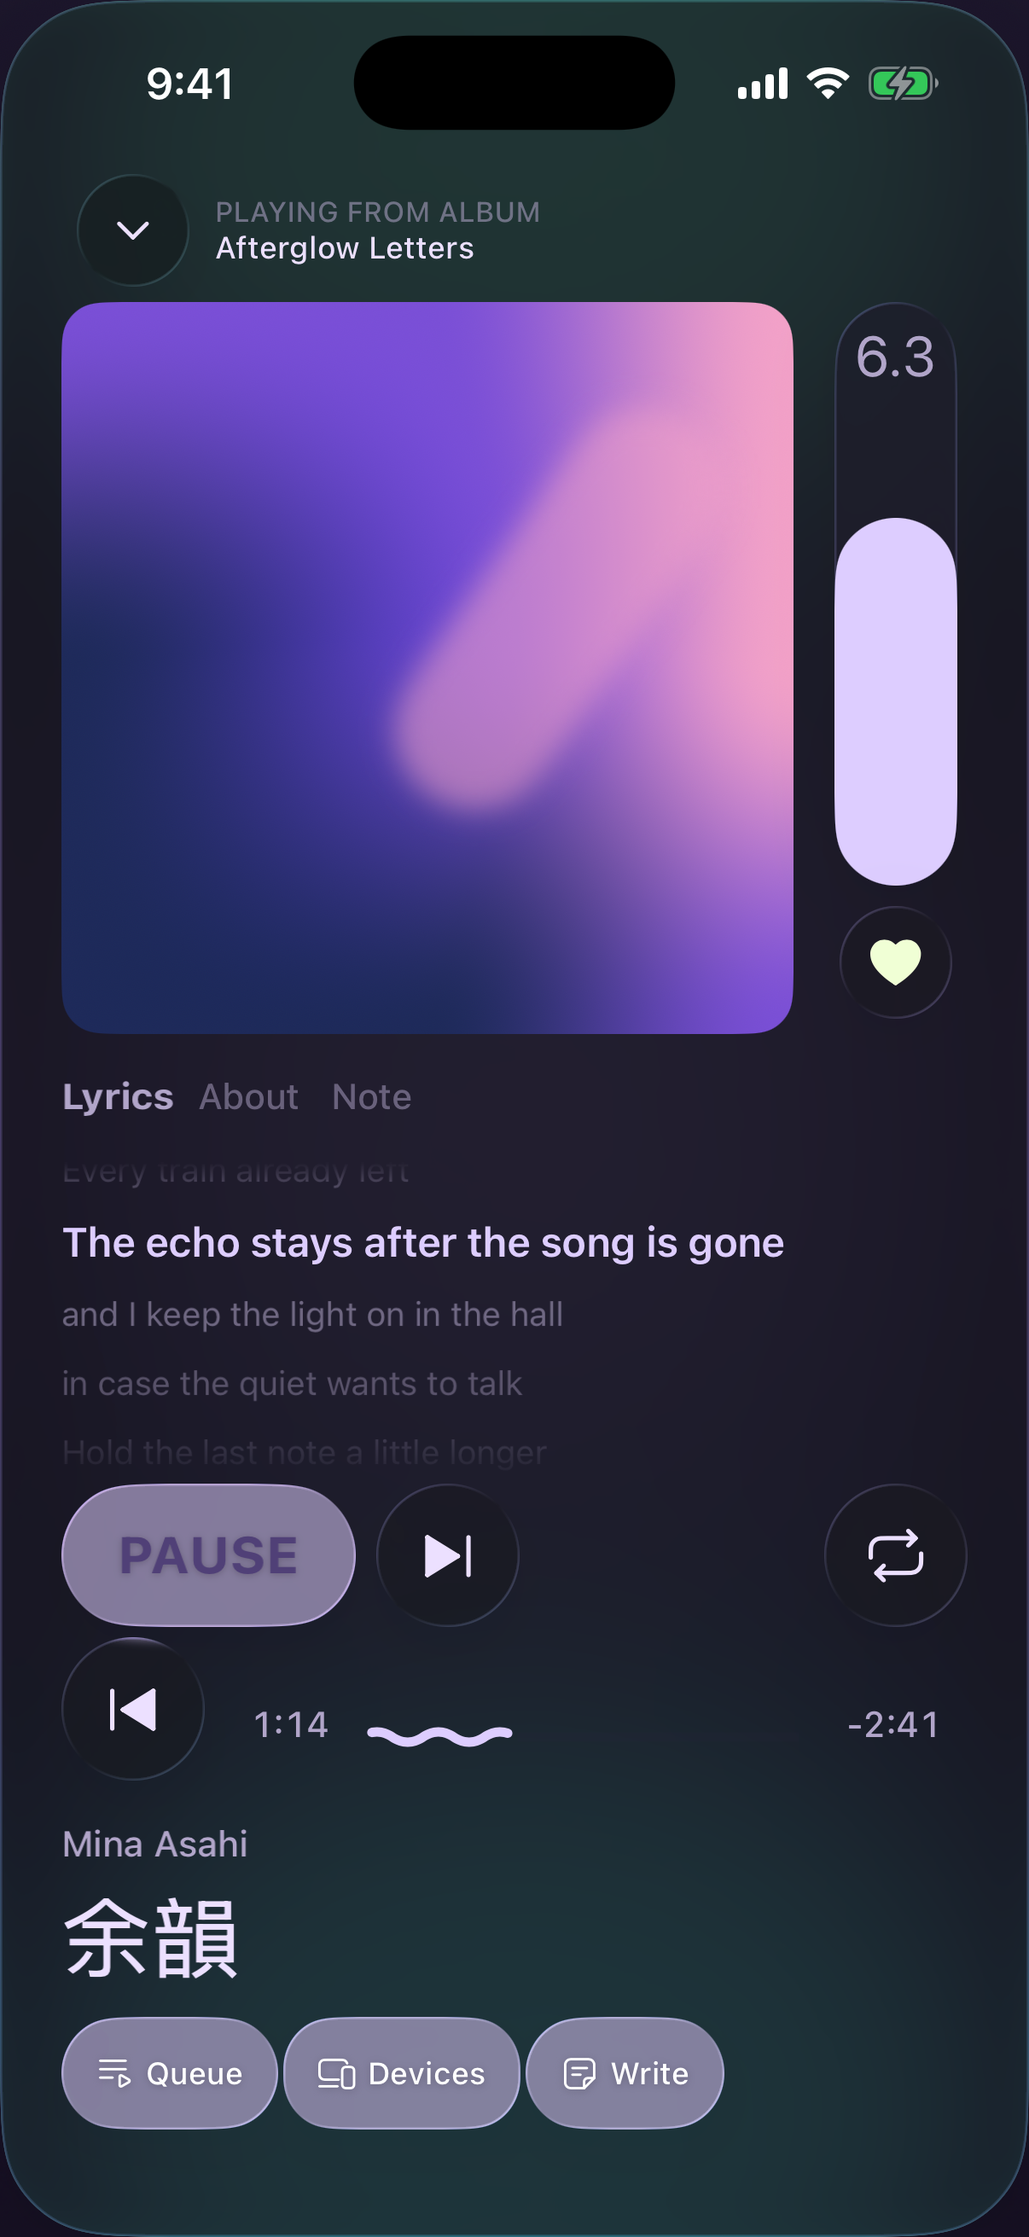
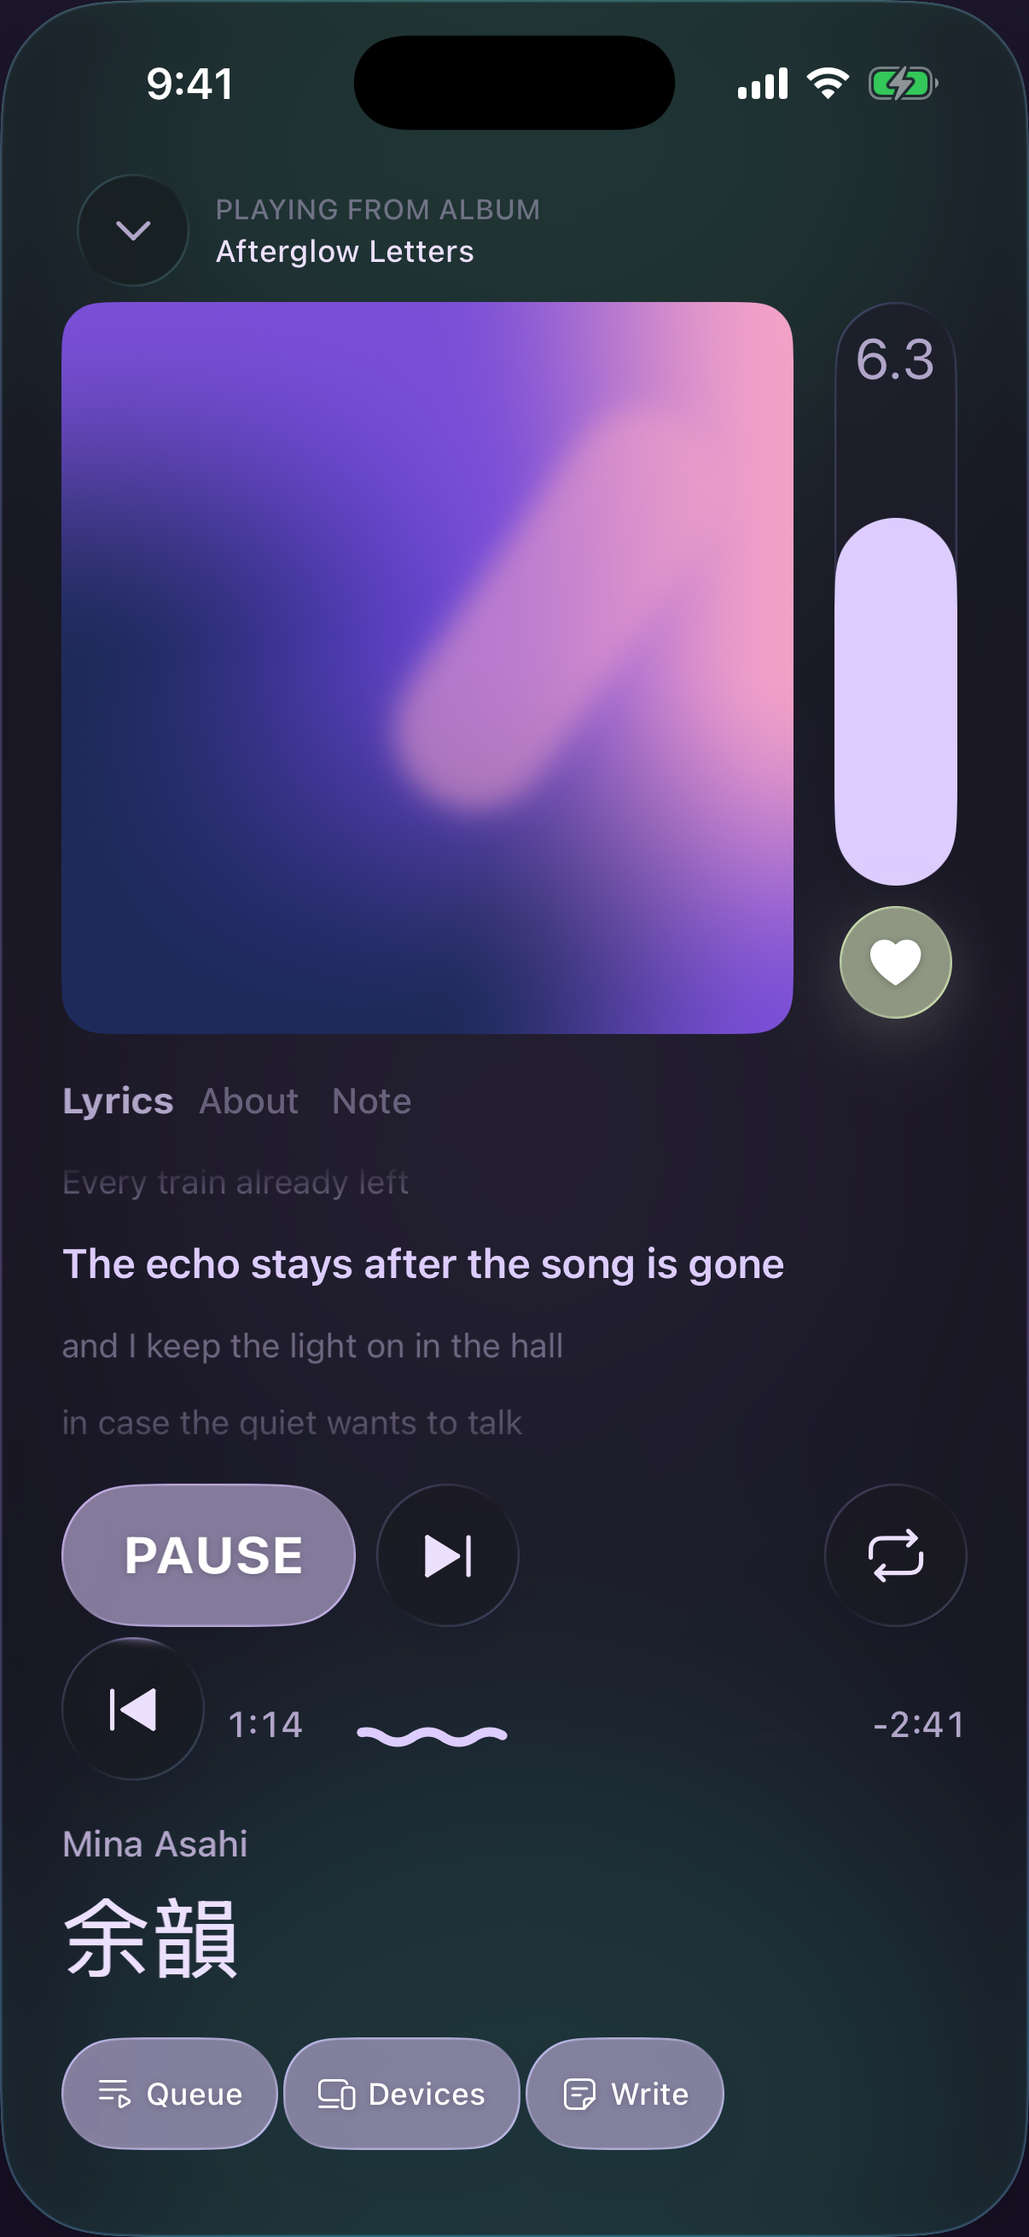
ios(np): layout parity with Compact Android Now Playing
Role line boxes (yoinRole) for the top bar, tabs, rating number; lyric
lines in their bodyLarge/bodyMedium boxes with a token-derived scroll
step; time labels at 44/52 with 8 pt gaps (touch glass drawn outside
the row); PAUSE stretch from the leading edge and white in dark; liked
heart on tertiary glass with onTertiary glyph (Android FavoriteButton);
one-row hero top-aligned with the artist capped at 40 %; pills without
the extra bottom padding; one-line lyric centered in its slot.

diff --git a/iosApp/Yoin/NowPlaying/NowPlayingView.swift b/iosApp/Yoin/NowPlaying/NowPlayingView.swift
@@ -175,7 +175,10 @@ struct NowPlayingView: View {
             let clear = budget.lyricWindow
             ZStack(alignment: .top) {
                 lyrics(p, clear: clear, under: budget.transport,
-                       anchor: budget.oneLineLyric ? 4 : clear * 0.22, fadeTop: !budget.oneLineLyric)
+                       anchor: budget.oneLineLyric
+                           // OneLineLyricRow: the 32 pt line centered in its slot.
+                           ? (clear - Tokens.type.bodyLarge.lineHeight.cg - 8) / 2 + 4
+                           : clear * Tokens.np.LYRICS_ANCHOR_FRACTION.cg, fadeTop: !budget.oneLineLyric)
                 transport(p)
                     .padding(.top, clear)
             }
@@ -185,7 +188,8 @@ struct NowPlayingView: View {
                 Spacer().frame(height: budget.slack)
             }
             hero(p, inline: budget.inlineHero)
-                .frame(height: budget.hero, alignment: budget.inlineHero ? .bottom : .top)
+                // StageHeightSlot: content at the top, air below.
+                .frame(height: budget.hero, alignment: .top)
             pills
                 .frame(height: budget.pills, alignment: .bottomLeading)
                 .npFade(open, contentFade)
@@ -200,8 +204,9 @@ struct NowPlayingView: View {
             // A glass circle (the transport's secondary glass), so it reads
             // as a control over the page; it rides along with the drag.
             Button { collapse() } label: {
-                YoinIcon("chevron_down", size: 26)
-                    .foregroundStyle(scheme.onSurface)
+                // Android StageTopBar: 28 dp ChevronDown in onSurfaceVariant.
+                YoinIcon("chevron_down", size: 28)
+                    .foregroundStyle(scheme.onSurfaceVariant)
                     .labContrast("transportSecondary")
                     .frame(width: 44, height: 44)
                     .contentShape(.circle)
@@ -212,13 +217,12 @@ struct NowPlayingView: View {
             .frame(width: 48, height: 48)
             .accessibilityLabel("Collapse Now Playing")
             VStack(alignment: .leading, spacing: 0) {
+                // PlayingFromLabel: labelSmall kind over labelMedium name.
                 Text("PLAYING FROM ALBUM")
-                    .font(.gsf(11, .medium))
-                    .tracking(0.1)
+                    .yoinRole(Tokens.type.labelSmall)
                     .foregroundStyle(scheme.onSurfaceVariant.opacity(0.55))
                 Text(p.album.title)
-                    .font(.gsf(12, .medium))
-                    .tracking(0.1)
+                    .yoinRole(Tokens.type.labelMedium)
                     .foregroundStyle(scheme.onSurface)
             }
             .lineLimit(1)
@@ -260,18 +264,28 @@ struct NowPlayingView: View {
     private var heart: some View {
         Button { withAnimation(Yoin.spatialFast) { favorite.toggle() } } label: {
             YoinIcon(favorite ? "favorite_filled" : "favorite", size: 24)
-                // Untinted heart (Balanced / HIG): "liked" is a colored glyph.
-                .foregroundStyle(GlassLab.shared.style("heart").tintOn
-                                 ? (favorite ? scheme.onTertiary : scheme.onTertiaryContainer)
-                                 : (favorite ? scheme.tertiary : scheme.onSurfaceVariant))
+                // Android FavoriteButton: liked = onTertiary heart on a
+                // tertiary circle, else onTertiaryContainer on
+                // tertiaryContainer. Liked, the glass carries the tertiary
+                // fill (like PAUSE carries primary) and the glyph stays
+                // legible on it in both modes; unliked, plain glass.
+                .foregroundStyle(favorite
+                                 ? (colorScheme == .dark ? Color.white : scheme.onTertiary)
+                                 : (heartTinted ? scheme.onTertiaryContainer : scheme.onSurfaceVariant))
+                .labContrast(favorite ? "transportPrimary" : "heart")
                 .frame(width: Tokens.np.HEART_SIZE.cg, height: Tokens.np.HEART_SIZE.cg)
                 .contentShape(.circle)
         }
         .buttonStyle(PressReport { touch("heart", $0) })
-        .labGlass("heart", scheme: scheme, brand: brand,
+        .labGlass(favorite ? "transportPrimary" : "heart", scheme: scheme, brand: brand,
                   auto: favorite ? scheme.tertiary : scheme.tertiaryContainer, in: Circle())
+        .animation(Yoin.effects, value: favorite)
         .accessibilityLabel(favorite ? "Remove from favorites" : "Add to favorites")
     }
+
+    /// The lab's heart style is tinted (Current preset): unliked takes
+    /// tertiaryContainer's on-color, as on Android.
+    private var heartTinted: Bool { lab.style("heart").tintOn }
 
     // 4. Text tabs.
     private var tabs: some View {
@@ -279,8 +293,9 @@ struct NowPlayingView: View {
             ForEach(Array(["Lyrics", "About", "Note"].enumerated()), id: \.offset) { i, title in
                 let on = tab == i
                 Button { withAnimation(Yoin.spatialFast) { tab = i } } label: {
+                    // CompactTextTabs: labelLarge (Bold when selected).
                     Text(title)
-                        .font(.gsf(14, on ? .bold : .medium))
+                        .yoinRole(Tokens.type.labelLarge, weight: on ? .bold : nil)
                         .foregroundStyle(scheme.onSurfaceVariant.opacity(on ? 1 : 0.5))
                         .scaleEffect(x: on ? 1.08 : 1, y: 1, anchor: .leading)
                 }
@@ -301,18 +316,24 @@ struct NowPlayingView: View {
             ForEach(Array(p.lyrics.enumerated()), id: \.offset) { i, line in
                 let d = abs(i - p.activeLyric)
                 let active = d == 0
+                // LyricLineItem: active bodyLarge (16/24) rounded SemiBold
+                // in primary, else bodyMedium (14/20) onSurfaceVariant;
+                // each line in its role's line box, 4 above and below.
                 Text(line)
                     .font(active ? YoinFont.rounded(16, semibold: true) : .gsf(14))
+                    .tracking(0)
+                    .lineLimit(1)
+                    .frame(height: active ? Tokens.type.bodyLarge.lineHeight.cg : Tokens.type.bodyMedium.lineHeight.cg)
                     .foregroundStyle(active ? scheme.primary : scheme.onSurfaceVariant)
                     .opacity(active ? 1 : (d == 1 ? 0.55 : d == 2 ? 0.40 : 0.28))
                     .scaleEffect(active ? 1 : 0.94, anchor: .leading)
-                    .lineLimit(1)
                     .padding(.vertical, 4)
                     .frame(maxWidth: .infinity, alignment: .leading)
             }
         }
-        // Lines are ≈ 24 + 8 + 2 tall; scroll so the active line's top sits at `anchor`.
-        .offset(y: anchor - 4 - CGFloat(p.activeLyric) * 30)
+        // Lines before the active one are 20 + 8 + 2 tall; scroll so the
+        // active line's box (with its 4 pt pad) sits at `anchor`.
+        .offset(y: anchor - 4 - CGFloat(p.activeLyric) * (Tokens.type.bodyMedium.lineHeight.cg + 8 + 2))
         .frame(height: total, alignment: .top)
         .clipped()
         .mask(
@@ -340,11 +361,15 @@ struct NowPlayingView: View {
         VStack(spacing: 4) {
             HStack(spacing: 8) {
                 Button {} label: {
+                    // titleLarge × 0.9, Bold, 0.5 tracking; the playing
+                    // stretch (1.06) grows from the word's leading edge.
                     Text("PAUSE")
                         .font(.gsf(19.8, .bold))
                         .tracking(0.5)
-                        .scaleEffect(x: 1.06, y: 1)
-                        .foregroundStyle(scheme.onPrimary)
+                        .scaleEffect(x: 1.06, y: 1, anchor: .leading)
+                        // Same rule as the pills on the same primary glass:
+                        // dark onPrimary sank into it.
+                        .foregroundStyle(colorScheme == .dark ? Color.white : scheme.onPrimary)
                         .labContrast("transportPrimary")
                         .padding(.horizontal, 24)
                         .frame(height: 56)
@@ -374,30 +399,32 @@ struct NowPlayingView: View {
     /// 1:14 ~~~ -2:41. While any control is touched it morphs into glass:
     /// a capsule grows out of the bar's line to hold the times and the bar
     /// (iOS 26 Music's scrubber), and shrinks back a second after release.
-    /// The 10 pt inset is constant, so the bar never changes width under
-    /// the finger.
+    /// The capsule is drawn outside the row, so the bar never changes width
+    /// under the finger and rests at Android's width.
     private func progress(_ p: PlaybackSnapshot) -> some View {
         HStack(spacing: 0) {
+            // PlaybackTimeLabel: labelLarge tabular, min 44 / 52, 8 apart.
             Text(formatTime(p.positionSec))
-                .frame(minWidth: 40, alignment: .leading)
+                .frame(minWidth: 44, alignment: .leading)
                 .offset(y: 6)
-            Spacer().frame(width: 6)
+            Spacer().frame(width: 8)
             WavyProgressBar(progress: Double(p.positionSec) / Double(p.track.durationSec),
                             duration: TimeInterval(p.track.durationSec), isPlaying: p.isPlaying,
                             tint: scheme.primary, trackTint: scheme.surfaceContainerHighest,
                             onScrubbing: { touch("progress", $0) }) { _ in }
                 .frame(height: 40, alignment: .bottom)
-            Spacer().frame(width: 6)
+            Spacer().frame(width: 8)
             Text("-" + formatTime(p.track.durationSec - p.positionSec))
-                .frame(minWidth: 48, alignment: .trailing)
+                .frame(minWidth: 52, alignment: .trailing)
                 .offset(y: 6)
         }
-        .padding(.horizontal, 10)
         // The row itself carries the glass (as glass content the times and
         // the bar draw over it; a background glass in the transport's
         // container would be lifted above them). The shape does the morph.
+        // The row sits where Android's does; the capsule reaches 4 pt past
+        // its leading edge (clear of Previous) and 10 pt past its end.
         .npGlass("ratingTrack", scheme: scheme, auto: scheme.surfaceVariant, held: true,
-                 in: ScrubberGlassShape(grow: interacting ? 1 : 0))
+                 in: ScrubberGlassShape(grow: interacting ? 1 : 0, leading: 4, trailing: 10))
     }
 
     private func roundButton(_ icon: String, fill: Color, ink: Color, label: String) -> some View {
@@ -419,16 +446,25 @@ struct NowPlayingView: View {
     @ViewBuilder
     private func hero(_ p: PlaybackSnapshot, inline: Bool) -> some View {
         if inline {
-            HStack(alignment: .firstTextBaseline, spacing: 12) {
-                heroTitle(p)
-                    .layoutPriority(1)
-                Text(p.album.artist)
-                    .font(.gsf(14.4, .medium))
-                    .foregroundStyle(scheme.onSurfaceVariant)
-                    .npFade(open, contentFade)
+            // One row: title, then the artist on its baseline 12 after it,
+            // the artist capped at 40 % of the row (HeroOneLineArtistShare).
+            GeometryReader { g in
+                HStack(alignment: .firstTextBaseline, spacing: 12) {
+                    heroTitle(p)
+                        .layoutPriority(1)
+                    Text(p.album.artist)
+                        .font(.gsf(14.4, .medium))
+                        .foregroundStyle(scheme.onSurfaceVariant)
+                        .scaleEffect(x: 1.02, y: 1, anchor: .leading)
+                        .frame(maxWidth: g.size.width * 0.4, alignment: .leading)
+                        // Measured first (capped); the title takes the rest.
+                        .layoutPriority(2)
+                        .npFade(open, contentFade)
+                    Spacer(minLength: 0)
+                }
+                .lineLimit(1)
             }
-            .lineLimit(1)
-            .padding(.bottom, 12)
+            .frame(height: Tokens.type.displaySmall.lineHeight.cg)
         } else {
             VStack(alignment: .leading, spacing: 2) {
                 Text(p.album.artist)
@@ -466,7 +502,6 @@ struct NowPlayingView: View {
                 pill("note", "Write", shape: AnyShape(Capsule()))
             }
         }
-        .padding(.bottom, 8)
     }
 
     private func pill(_ icon: String, _ title: String, shape: AnyShape) -> some View {
@@ -613,10 +648,13 @@ struct RatingBar: View {
                     .frame(height: max(48 - inset * 2, (h - inset * 2) * fraction))
                     .frame(maxHeight: .infinity, alignment: .bottom)
                     .padding(inset)
+                // titleLarge (22/28) tabular; the color crosses from
+                // onSurfaceVariant to onPrimary as the fill goes 80 → 100 %.
                 Text(value >= 10 ? "10" : String(format: "%.1f", value))
-                    .font(.gsf(22))
+                    .yoinRole(Tokens.type.titleLarge)
                     .monospacedDigit()
-                    .foregroundStyle(fraction > 0.8 ? scheme.onPrimary : scheme.onSurfaceVariant)
+                    .foregroundStyle(scheme.onSurfaceVariant.mix(with: scheme.onPrimary,
+                                                                 by: min(1, max(0, (fraction - 0.8) / 0.2))))
                     .frame(minWidth: 36)
                     .padding(.top, 8)
             }
@@ -644,6 +682,9 @@ struct RatingBar: View {
 /// (they sit 9 pt below the 56 pt row's middle).
 struct ScrubberGlassShape: Shape {
     var grow: CGFloat
+    /// How far the grown capsule reaches past the row's ends.
+    var leading: CGFloat = 0
+    var trailing: CGFloat = 0
 
     var animatableData: CGFloat {
         get { grow }
@@ -654,8 +695,9 @@ struct ScrubberGlassShape: Shape {
         let g = max(0, grow)
         let inset = (1 - min(g, 1)) * 50
         let h = 42 * g
-        let r = CGRect(x: rect.minX + inset, y: rect.midY + 9 - h / 2,
-                       width: max(0, rect.width - inset * 2), height: h)
+        let lead = leading * min(g, 1), trail = trailing * min(g, 1)
+        let r = CGRect(x: rect.minX - lead + inset, y: rect.midY + 9 - h / 2,
+                       width: max(0, rect.width + lead + trail - inset * 2), height: h)
         return Capsule().path(in: r)
     }
 }

diff --git a/iosApp/docs/fidelity/nowplaying.md b/iosApp/docs/fidelity/nowplaying.md
@@ -1,0 +1,40 @@
+# Now Playing: layout parity (Compact phone)
+
+Android source of truth: `app/src/main/java/com/gpo/yoin/ui/nowplaying/` (`CompactPlayingContent`
+in NowPlayingScreen.kt, PlaybackControls.kt, BottomPills.kt), `ui/component/RatingSlider.kt`,
+`ui/component/LyricsDisplay.kt`. iOS: `iosApp/Yoin/NowPlaying/NowPlayingView.swift`.
+Slot heights still come from the shared Kotlin budget (`resolveStageColumnBudget`). dp → pt 1:1.
+
+Kept on purpose (owner's iOS decisions): glass transport buttons, glass ⌄ circle, glass rating
+track + held state, progress bar morphing into glass while touched, glass pills, the v4
+neighbour-album background, lyrics running on under the transport, no halftone dots.
+
+Screenshots: `iosApp/screenshots/iphone-np.png`, `-dark`, `-short`, `-touch`, `-touch-dark`.
+
+| Element | Android (file:line) | iOS before | iOS after |
+|---|---|---|---|
+| ⌄ glyph | 28 dp `ChevronDown`, tint onSurfaceVariant (NowPlayingScreen.kt:3858) | 26 pt, onSurface | 28 pt, onSurfaceVariant (still in the glass circle) |
+| "PLAYING FROM ALBUM" | labelSmall 11/16, 0.1 sp, onSurfaceVariant 55 % (NowPlayingScreen.kt:5047) | 11 pt, natural line box | `yoinRole(labelSmall)`: 16 pt line box |
+| Album name | labelMedium 12/16, 0.1 sp, onSurface (NowPlayingScreen.kt:5054) | 12 pt, natural line box | `yoinRole(labelMedium)` |
+| Liked heart | 44 dp circle: liked = **tertiary** container + **onTertiary** glyph; not liked = tertiaryContainer + onTertiaryContainer (NowPlayingScreen.kt:5135–5150) | Untinted glass with a **tertiary glyph** (dark olive on a light circle) | Liked: glass tinted with tertiary (the PAUSE glass recipe, 55 %), glyph onTertiary in light / white in dark (same legibility rule as PAUSE and the pills). Not liked: plain glass, onSurfaceVariant glyph (onTertiaryContainer if the lab tints the heart). Note: Android's heart is tertiary too, so for this violet cover it is green there as well; see report |
+| Tabs | labelLarge 14/20, Bold when selected, 50 % unselected, ×1.08 left-anchored, 12 apart, top of a 30 slot (NowPlayingScreen.kt:4101–4150) | 14 pt, natural line box | `yoinRole(labelLarge)` (20 pt line box); rest unchanged |
+| Lyric lines | active bodyLarge 16/24 rounded SemiBold primary; others bodyMedium 14/20 onSurfaceVariant; 4 above/below, 2 apart; alpha 1/.55/.40/.28; scale .94 left (LyricsDisplay.kt:240–300) | natural line boxes; scroll assumed 30 pt per line | role line boxes (24 / 20 + 8), scroll step = 20 + 8 + 2 from the tokens; anchor = `LYRICS_ANCHOR_FRACTION` |
+| One-line lyric (short) | 32 dp line centered in its ≤ 44 slot (`OneLineLyricRow`, NowPlayingScreen.kt:1825) | top-aligned at 4 pt | centered: (slot − 32)/2 |
+| PAUSE label | titleLarge×0.9 Bold, 0.5 sp, stretch 1.06 from the **leading** edge, onPrimary on primary (PlaybackControls.kt:171–176, 312) | stretch from center; onPrimary also in dark → dark text on light glass, unreadable | stretch anchored leading; onPrimary in light, white in dark |
+| Time labels | labelLarge tabular, min width 44 / 52, 8 dp each side of the bar, flush with the row ends (PlaybackControls.kt:474–503) | min 40 / 48, 6 pt gaps, row inset 10 pt for the glass → bar 8 pt narrower, labels pulled in | 44 / 52, 8 pt gaps, no inset: bar and labels sit at Android's x. The touch-glass capsule is drawn outside the row instead (4 pt before, 10 pt after), so it still clears Previous |
+| Hero, one row (short) | title displaySmall, artist titleMedium×0.9 on its baseline, 12 apart, artist ≤ 40 % of the row and measured first; slot content at the **top** (NowPlayingScreen.kt:4700–4760, 4905–4906, `StageHeightSlot` 4564) | bottom-aligned + 12 pt bottom padding (row rose when the slot was squeezed); artist uncapped; no artist stretch | top-aligned; artist capped at 40 %, layout priority over the title; artist stretch 1.02 |
+| Hero, stacked | artist titleMedium×0.9 (24 line) / 2 / title displaySmall (44 line), stretches 1.02 / 1.03 | same | unchanged |
+| Pills | bottom-aligned in their slot, no bottom padding (NowPlayingScreen.kt:1918) | extra 8 pt bottom padding | removed: pills sit on the column's bottom edge as on Android |
+| Rating number | titleLarge 22/28 tabular, 8 dp from the top; color lerps onSurfaceVariant → onPrimary as fill goes 80 → 100 % (RatingSlider.kt:205–225) | 22 pt natural box; hard switch at 80 % | `yoinRole(titleLarge)` line box; color mixed over 80 → 100 % |
+| Cover, rating column, transport rows, pill sizes/shapes, column padding | (budget + YoinTokens) | already matched | unchanged |
+
+## Not matched
+
+- Lyric lines stay single-line (`lineLimit(1)`); Android wraps long lines. The iOS scroll offset
+  is computed from fixed line heights, so wrapping would need measured rows.
+- Short screens: Android shows only the current line; iOS lets the next line run on under the
+  transport (owner's "lyrics under the transport" decision).
+- `-screen np-short` puts the height the 700 pt reference wouldn't have between transport and
+  hero (debug comparison only).
+- Android-only affordances not ported here: spine marquee beside a height-capped cover,
+  TrackLibraryButton, Cast button, play-mode split, PLAY/PAUSE width morph.
